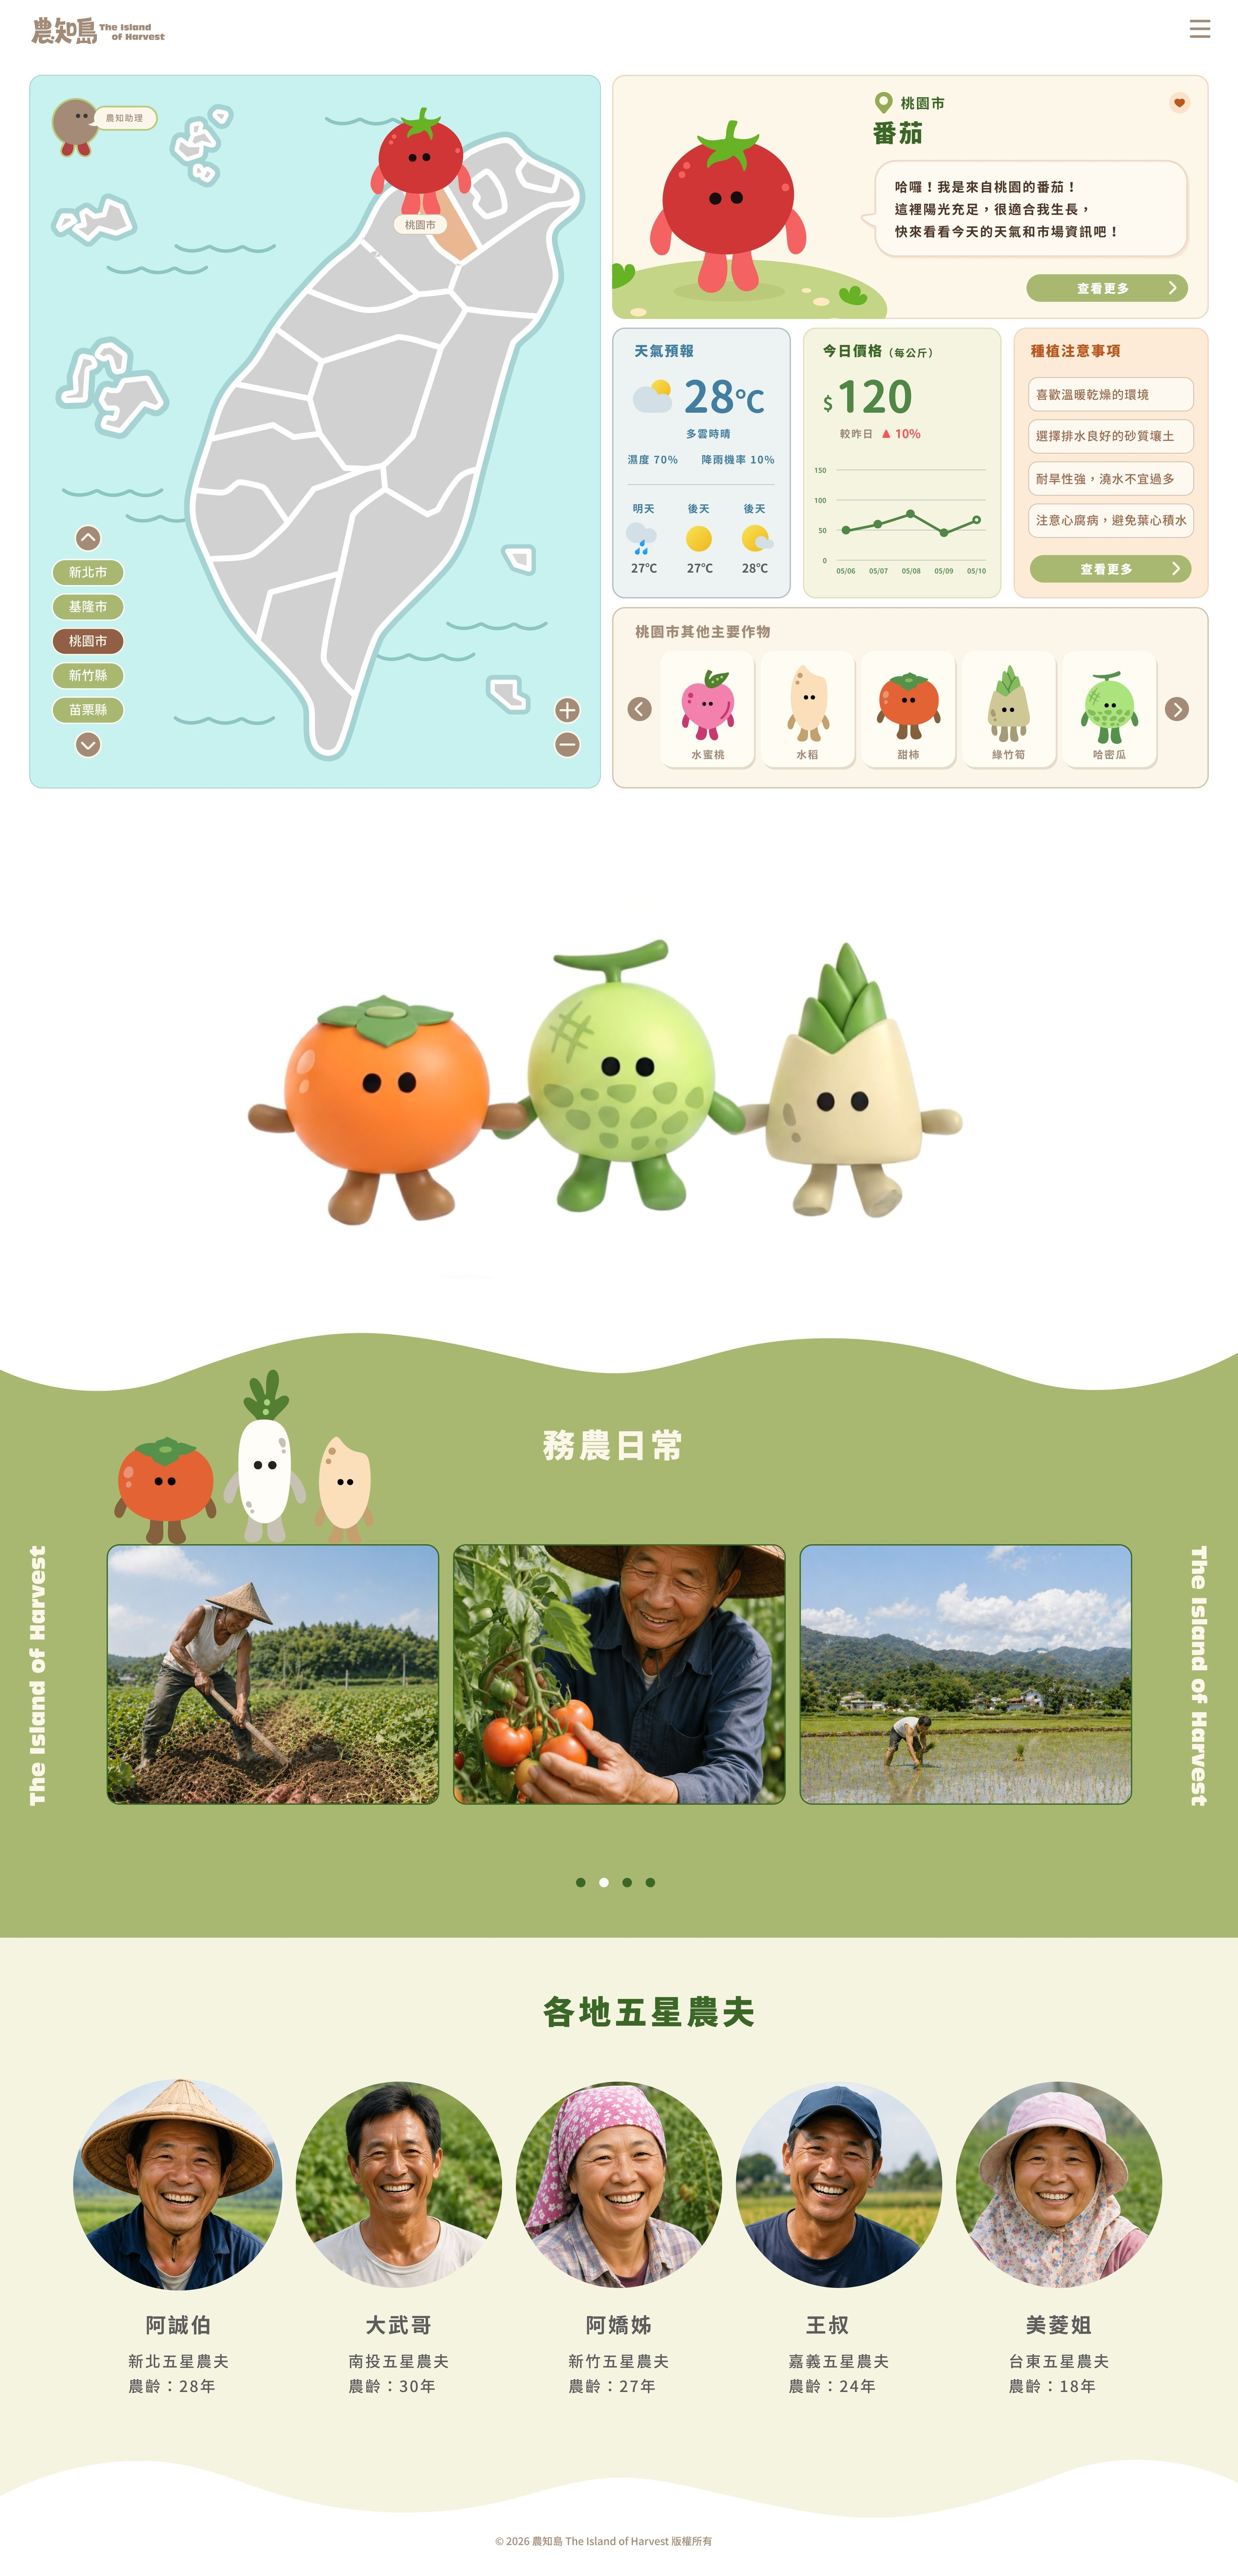
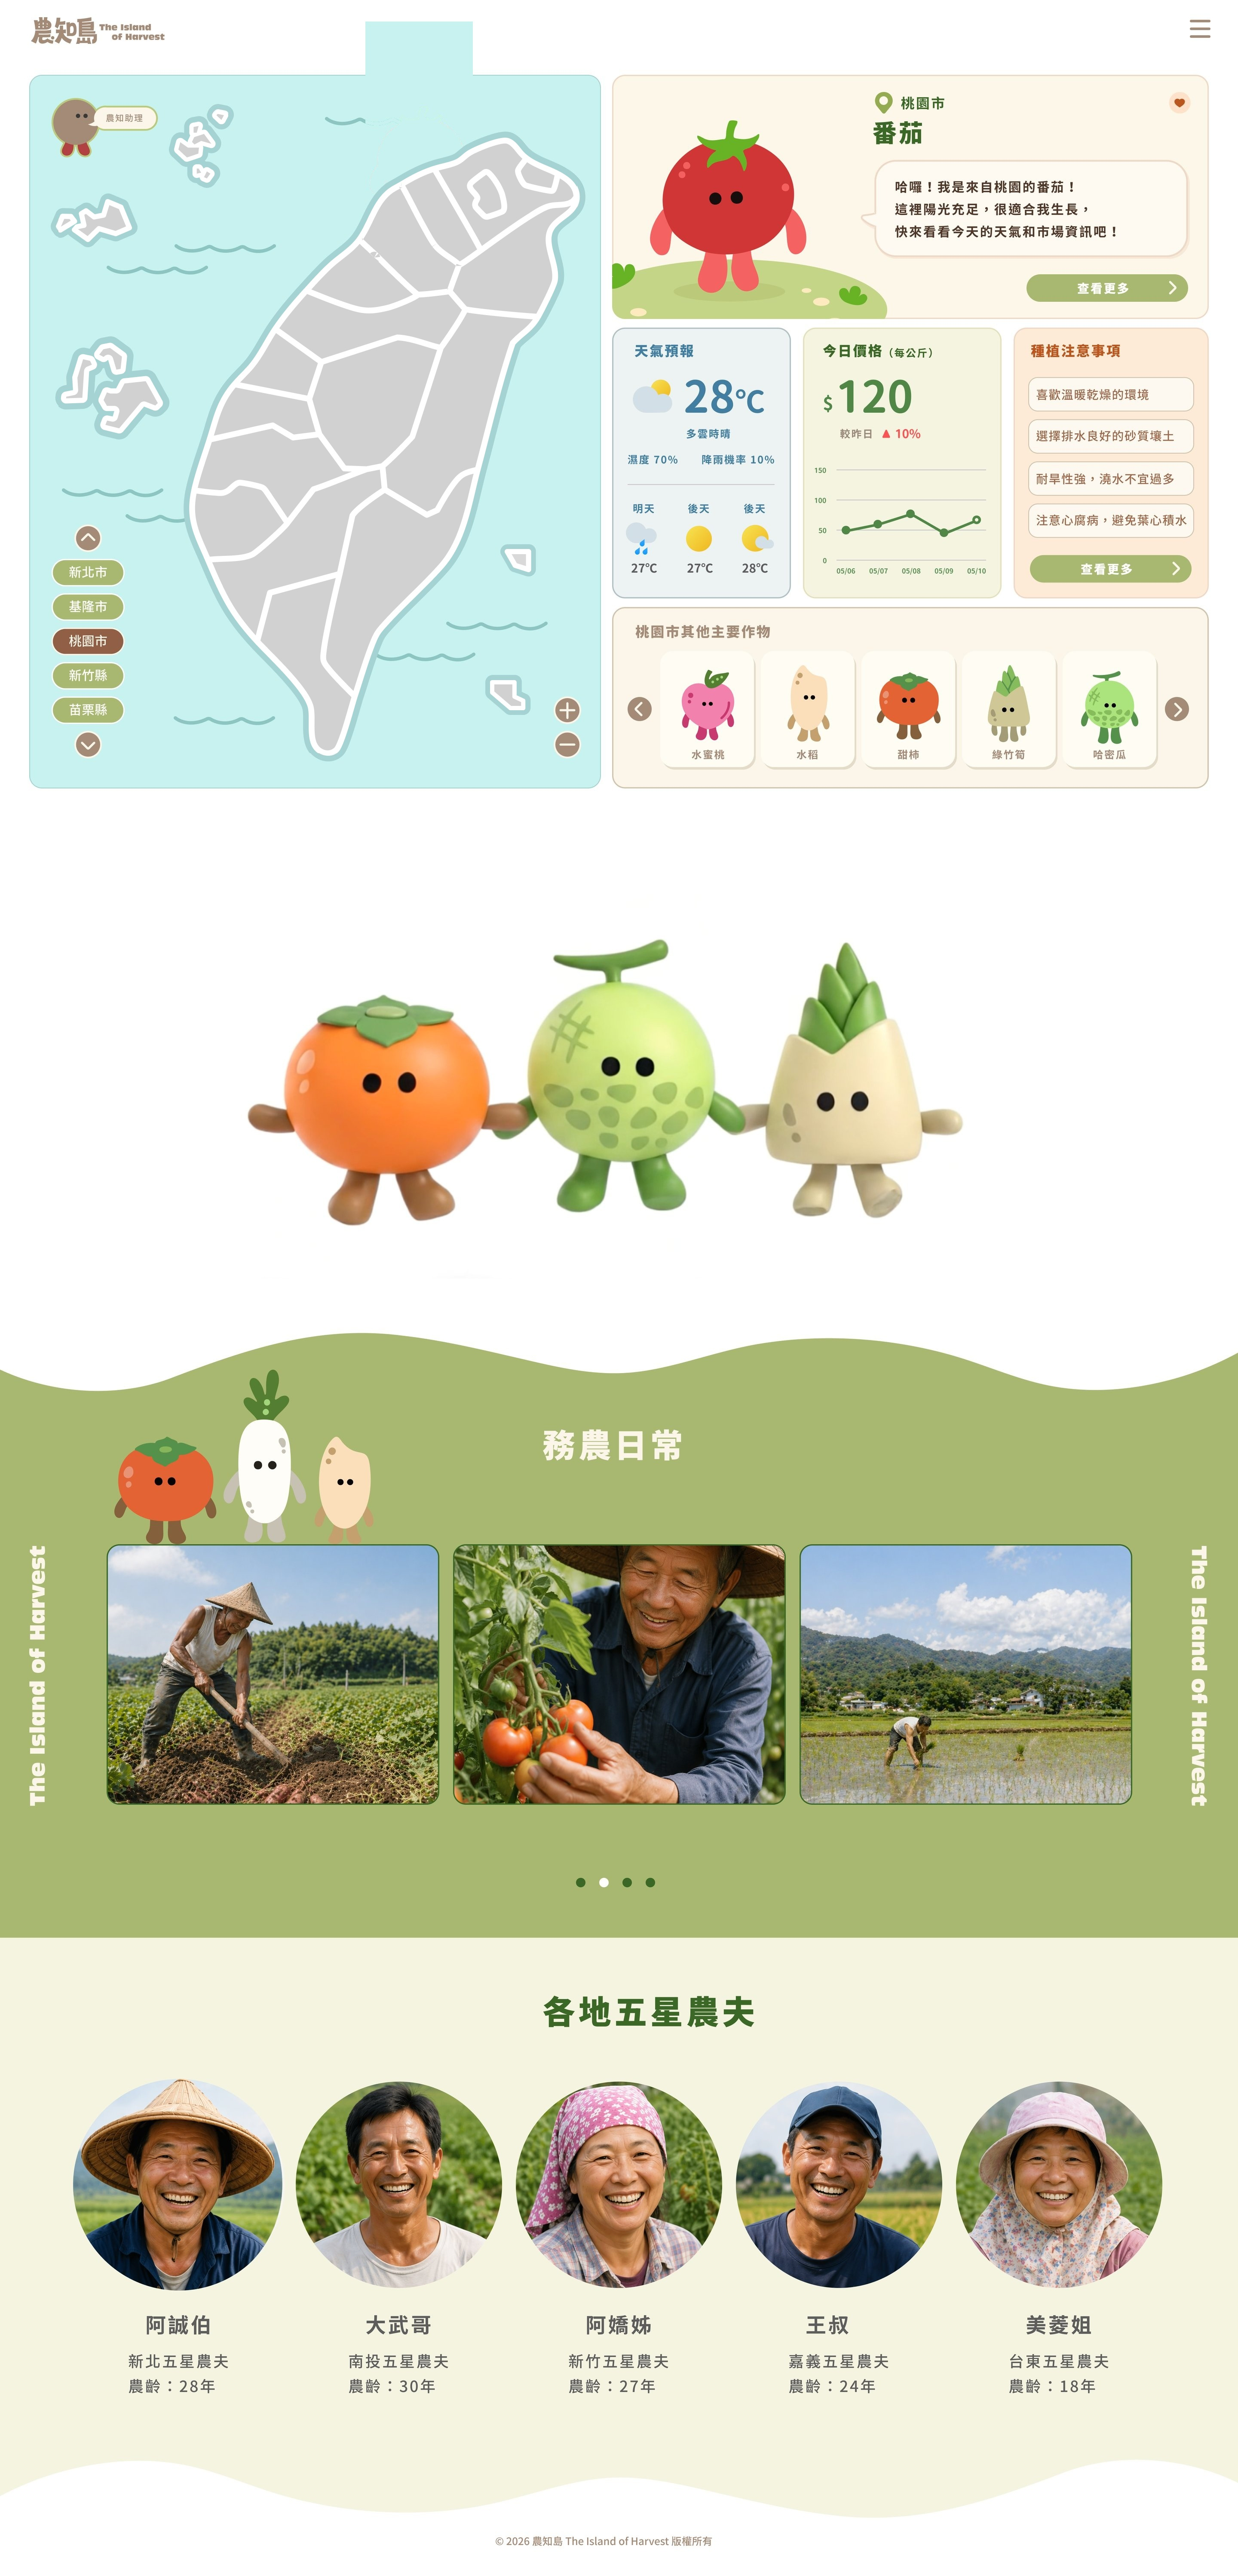
Composite Figma's clean Map_Default PNG onto full_page.jpg as ground truth
User exported the Map_Default frame (51:5411) as PNG from Figma — the
canonical "no character" version. Composite it onto full_page.jpg at the
map area position (136, 264) so the JPG itself is now the clean version,
no SVG cover overlay needed.

Steps:
1. Pixel-erase any tomato leftover above polygon top in the JPG (the PNG
   has transparent background above polygon, so leaf bits in JPG remain)
2. Composite the clean PNG (1206×1488 after cropping export padding) onto
   the JPG at (136, 264) using its alpha channel — polygon area replaced
   with the Figma-rendered clean version

Removed the now-unnecessary SVG cover layer from App.tsx.

Changed region(s): [[0.2812, 0.0, 0.4062, 0.1248]]

diff --git a/unpacked/App.tsx b/unpacked/App.tsx
@@ -566,22 +566,6 @@ const Page = ({selected, onSelect}) => {
         preserveAspectRatio="none"
         style={{position:'absolute', inset:0, width:'100%', height:'100%'}}
       >
-        {/* CLEAN MAP COVER — 用 Figma 原 SVG path 精準蓋住 baked-in 番茄角色 + 桃園市 badge。
-            sea rect 蓋上方葉子；polygon path 灰填蓋掉 polygon 內的番茄+badge。
-            位於 polygon overlay 之前 → hover 時 polygon 上層的 HOVER_FILL 仍會正確顯示。 */}
-        <g style={{pointerEvents: 'none'}}>
-          {/* 上方海藍區覆蓋番茄頭頂葉子 — design canvas 1440 座標 */}
-          <rect x="427" y="78" width="113" height="138" fill="#C8F2F0"/>
-          {/* 桃園 polygon 灰填 — 用 51:5096 原 path，邊緣與 polygon 完美貼合 */}
-          <svg
-            x="415.106" y="210.701" width="122.972" height="134.78"
-            viewBox="0 0 122.971 134.78"
-            preserveAspectRatio="none"
-            style={{overflow:'visible'}}
-          >
-            <path d={TW_COUNTIES.find(c => c.id === '51_5096').d} fill="#D1D1D1"/>
-          </svg>
-        </g>
 
 
         {TW_COUNTIES.map(c => (